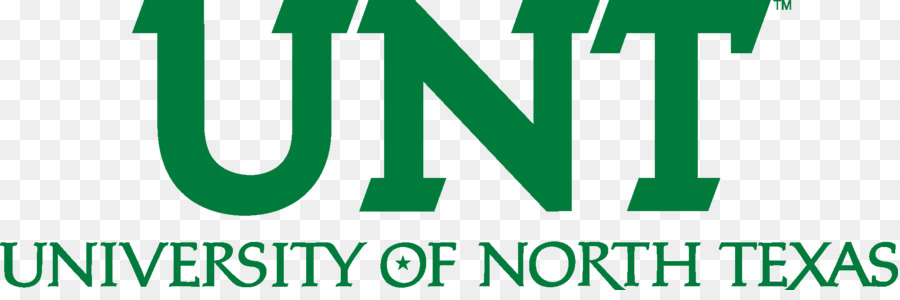
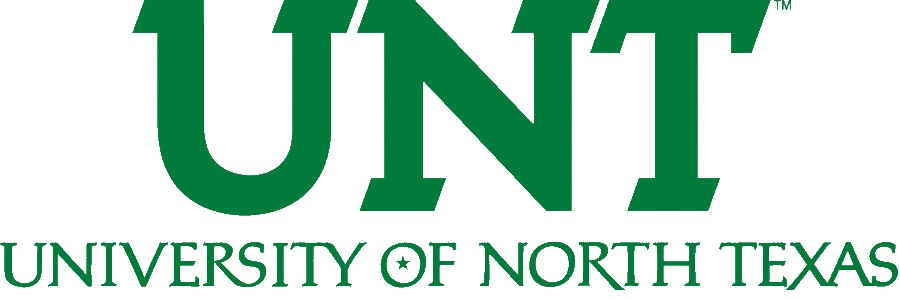
Fixed the UNT head image, needs replacement possibly with cleaner version later. Also added some basic css blocks to describe the bot and what it can currently do.

diff --git a/src/components/ChatBot.vue b/src/components/ChatBot.vue
@@ -3,11 +3,41 @@
     <img :src="image" />
     <h1>Accessibility Chat Bot</h1>
   </div>
+  <div class="box">
+    <p>
+      Welcome to the site! This website hosts a chat bot created
+      by students in the 1 semester capstone of the University of North Texas. 
+    </p>
+    <p>
+      The bot has yet to be named but it is created to assist 
+      those working to make their websites accessbile according to the <a href="https://www.w3.org/TR/WCAG21/">WCAG2.1</a>.
+    </p>
+  </div>
+  <div>
+    <h1>How to Use the Bot</h1>
+    <p class="box">
+      To get started using the bot you can click the chat bubble in the bottom right corner.
+    </p>
+    <h1>Details and Warnings</h1>
+    <div class="box">
+      <ul>
+        <li>
+            You can have as many active chats as your want, they are preserved via cookies on your your system.<br>
+            This means if you clear your cookies you <strong>clear</strong> your chat history with the bot.
+        </li>
+        <li>
+          The bot is currently only trained on the <strong>WCAG 2.1</strong> success criterion and guidelines.<br>
+          It is possible in the future it could be updated for general accessbility assistance.
+        </li>
+      </ul>
+    </div>
+  </div>
+  <footer>&copy; <small>UNT Capstone One Semester 2</small></footer>
 </template>
 
 <script>
 /* eslint-disable */
-import image from "../Images/UNT.jpg"
+import image from "../Images/UNT.png"
 export default {
   name: 'HelloWorld',
   data() {
@@ -72,4 +102,16 @@ export default {
 </script>
 
 <!-- Add "scoped" attribute to limit CSS to this component only -->
-<style scoped></style>
+<style scoped>
+  .box {
+    background-color: green;
+    border: 5px white groove;
+    padding: 10px;
+    margin-top: 10px;
+    margin-bottom: 10px;
+  }
+
+  .box ul li{
+    padding: 5px;
+  }
+</style>
